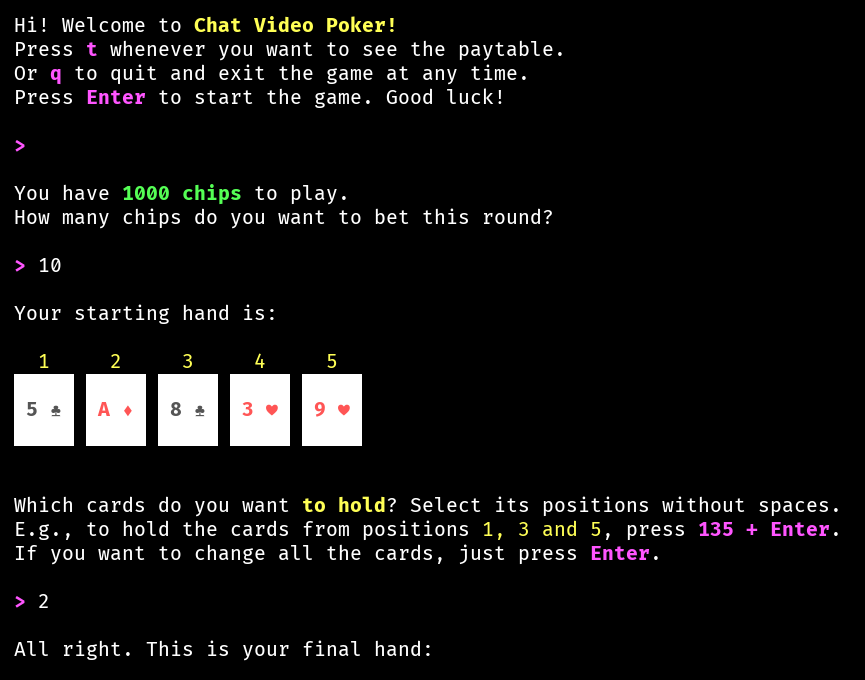
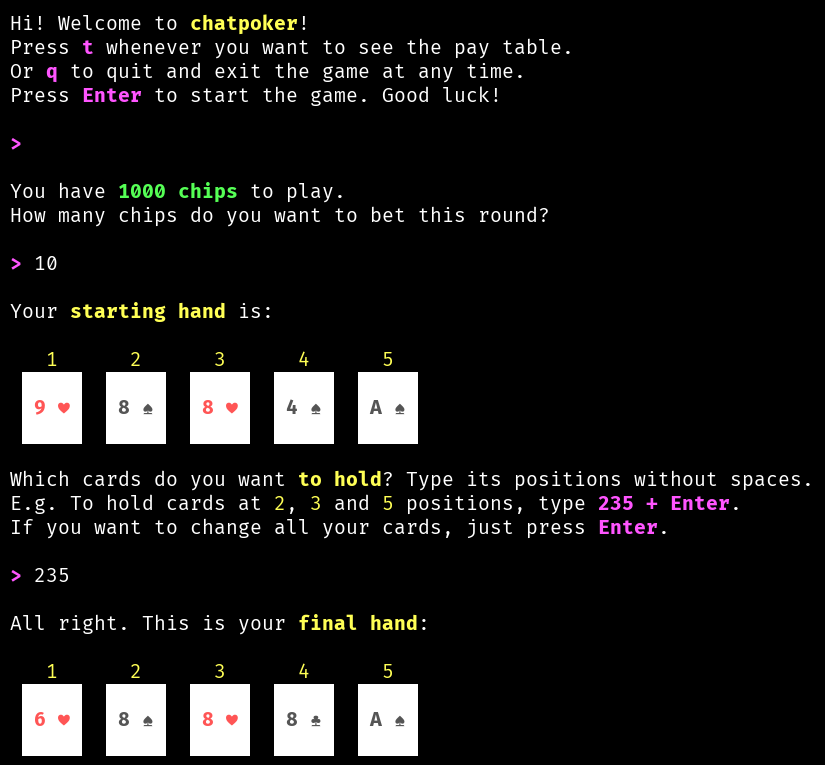
Messages refactoring

diff --git a/messages.py b/messages.py
@@ -1,128 +1,113 @@
-PURPLE = '\033[95m'
-BLUE = '\033[94m'
-CYAN = '\033[96m'
-GREEN = '\033[92m'
-YELLOW = '\033[93m'
-RED = '\033[91m'
-ENDC = '\033[0m'
-BOLD = '\033[1m'
-BLACK = '\033[30m'
-UNDERLINE = '\033[4m'
-FOREWHITE = '\033[107m'
+# ANSI color codes constants
+P = "\033[95m"  # Purple
+G = "\033[92m"  # Green
+Y = "\033[93m"  # Yellow
+R = "\033[91m"  # Red
+K = "\033[30m"  # Black
+W = "\033[107m" # White (foreground)
+B = "\033[1m"   # Bold
+D = "\033[0m"   # Restore to default
+BP = B + P
+BG = B + G
+BY = B + Y
+BR = B + R
 
-suit_map = {0: "♣",
-            1: "♥",
-            2: "♠",
-            3: "♦"}
+SUITS = ["♣", "♥", "♠", "♦"]
+VALS = ["2", "3", "4", "5", "6", "7", "8", "9", "10", "J", "Q", "K", "A"]
 
-val_map = {0: "2", 1: "3", 2: "4", 3: "5", 4: "6",
-           5: "7", 6: "8", 7: "9", 8: "10", 9: "J",
-           10: "Q", 11: "K", 12: "A"}
-
-PROMPT = f"    {BOLD}{PURPLE}> {ENDC}"
+PROMPT = f" {BP}>{D} "
 
 def render_card(v, s):
-    t = BOLD
-    if s in (1, 3):
-        t += FOREWHITE
-        t += RED
-    else:
-        t += FOREWHITE
-        t += BLACK
-    t += f" {val_map[v]:2}{suit_map[s]}"
-    t += " "
-    t += ENDC
-
-    return t
+    """Renders the card central line with number and suit"""
+    l = B + W
+    if s in (1, 3): # Red suit
+        l += R
+    else:           # Black suit
+        l += K
+    l += f" {VALS[v]:2}{SUITS[s]} {D}"
+    return l
 
 def render_hand(hand):
-    pos = f"{YELLOW}  1     2     3     4     5{ENDC}"
-    borders = 5 * f"{FOREWHITE}     {ENDC} "
-    return f"""
-    {pos}
-    {borders}
-    {" ".join([render_card(v, s) for v, s in hand])}
-    {borders}
-    """
+    """Renders the hand of cards"""
+    white_line = 5 * f" {W}     {D} " # White top and bottom cards lines
+    card_line = "  ".join([render_card(v, s) for v, s in hand])
+    t = (f"\n {Y}   1      2      3      4      5{D}\n"
+         f" {white_line}\n"
+         f"  {card_line}\n"
+         f" {white_line}\n")
+    return t
 
 def welcome():
-    return f"""
-    Hi! Welcome to {BOLD}{YELLOW}Chat Video Poker!{ENDC}
-    Press {BOLD}{PURPLE}t{ENDC} whenever you want to see the paytable.
-    Or {BOLD}{PURPLE}q{ENDC} to quit and exit the game at any time.
-    Press {BOLD}{PURPLE}Enter{ENDC} to start the game. Good luck!
-    """
+    t = (f"\n Hi! Welcome to {BY}chatpoker{D}!\n"
+         f" Press {BP}t{D} whenever you want to see the pay table.\n"
+         f" Or {BP}q{D} to quit and exit the game at any time.\n"
+         f" Press {BP}Enter{D} to start the game. Good luck!\n")
+    return t
 
 def bet(chips):
-    return f"""
-    You have {BOLD}{GREEN}{chips} chips{ENDC} to play.
-    How many chips do you want to bet this round?
-    """
+    t = (f"\n You have {BG}{chips} chips{D} to play.\n"
+         f" How many chips do you want to bet this round?\n")
+    return t
 
 def bet_limit(chips):
-    return f"""
-    {RED}Hey! you cannot bet more than {chips} chips.{ENDC}"""
+    t = f"\n {R}Hey! you cannot bet more than {BR}{chips} chips{D}{R}.{D}"
+    return t
 
 def bet_error():
-    return f"""
-    {RED}Sorry, but you need to enter a valid number.{ENDC}"""
+    t = f"\n {R}Sorry, but you need to enter a valid number.{D}"
+    return t
 
 def your_hand(hand):
-    rendered_hand = render_hand(hand)
-    return f"""
-    Your starting hand is:
-    {rendered_hand}"""
+    t = (f"\n Your {BY}starting hand{D} is:\n"
+         f" {render_hand(hand)}")
+    return t
 
 def change():
-    return f"""
-    Which cards do you want {BOLD}{YELLOW}to hold{ENDC}? Select its positions without spaces.
-    E.g., to hold the cards from positions {YELLOW}1, 3 and 5{ENDC}, press {BOLD}{PURPLE}135 + Enter{ENDC}.
-    If you want to change all the cards, just press {BOLD}{PURPLE}Enter{ENDC}.
-    """
+    t = (f" Which cards do you want {BY}to hold{D}?"
+         f" Type its positions without spaces.\n"
+         f" E.g. To hold cards at {Y}2{D}, {Y}3{D} and {Y}5{D}"
+         f" positions, type {BP}235 + Enter{D}.\n"
+         f" If you want to change all your cards, just press {BP}Enter{D}.\n")
+    return t
 
 def change_error():
-    return f"""
-    {RED}My bad... You must choose only valid card positions.{ENDC}"""
+    t = f"\n {R}Nope... You must choose valid card positions.{D}"
+    return t
 
 def result(hand, pattern, prize):
-    rendered_hand = render_hand(hand)
     if prize == 0:
-        prize_msg = "You didn't make any poker hands and lost your bet :("
+        msg = f"You didn't make a poker hand. Sorry, {BG}no bucks{D} for you."
     else:
-        prize_msg = f"You made a {BOLD}{YELLOW}{pattern}{ENDC} and won {BOLD}{GREEN}{prize} chips{ENDC}!"
-    return f"""
-    All right. This is your final hand:
-    {rendered_hand}
-
-    {prize_msg}"""
+        msg = f"You made a {BY}{pattern}{D} and won {BG}{prize} chips{D}!"
+    t = (f"\n All right. This is your {BY}final hand{D}:\n"
+         f" {render_hand(hand)}\n"
+         f" {msg}")
+    return t
 
 def new_hand():
-    return f"""
-    Press {BOLD}{PURPLE}Enter{ENDC} to start a new round.
-    """
+    t = f"\n Press {BP}Enter{D} to start a new round.\n"
+    return t
 
 def end():
-    return f"""
-    What a pity! You lost all your rich buck :(
-    Want to play again? Just press {BOLD}{PURPLE}Enter{ENDC} and I'll lend you some money.
-    """
+    t = (f"\n What a pity! You lost all your bucks :(\n"
+         f" Want to play again? Just press {BP}Enter{D}"
+         f" and I'll lend you some money.\n")
+    return t
 
 def quit(chips):
-    return f"""
-    You left the game with {BOLD}{GREEN}{chips} chips{ENDC}.
-    See you later!
-    """
+    t = (f"\n You left the game with {BG}{chips} chips{D}.\n"
+         f" See you later!\n")
+    return t
 
 def table():
-    return f"""
-    This is the paytable for each chip bet:
-
-    Royal Flush:        {BOLD}{YELLOW}800{ENDC}
-    Straight Flush:      {BOLD}{YELLOW}50{ENDC}
-    Four of a kind:      {BOLD}{YELLOW}25{ENDC}
-    Full House:           {BOLD}{YELLOW}9{ENDC}
-    Flush:                {BOLD}{YELLOW}6{ENDC}
-    Straight:             {BOLD}{YELLOW}4{ENDC}
-    Three of a kind:      {BOLD}{YELLOW}3{ENDC}
-    Two Pair:             {BOLD}{YELLOW}2{ENDC}
-    Jacks or Better:      {BOLD}{YELLOW}1{ENDC}"""
+    t = (f"\n This is the {BY}pay table{D} for each chip bet:\n\n"
+         f"  Royal Flush:        {BG}800{D}\n"
+         f"  Straight Flush:      {BG}50{D}\n"
+         f"  Four of a kind:      {BG}25{D}\n"
+         f"  Full House:           {BG}9{D}\n"
+         f"  Flush:                {BG}6{D}\n"
+         f"  Straight:             {BG}4{D}\n"
+         f"  Three of a kind:      {BG}3{D}\n"
+         f"  Two Pair:             {BG}2{D}\n"
+         f"  Jacks or Better:      {BG}1{D}")
+    return t

diff --git a/README.md b/README.md
@@ -29,7 +29,7 @@ python poker.py
 
 ## Docker version
 
-There's also a [Docker version on Docker Hub](https://hub.docker.com/r/zelacerda/chatpoker/tags) that you can use without install any file or dependency. Use the command below to pull the image and run the containerized version:
+There's also a [Docker version on Docker Hub](https://hub.docker.com/r/zelacerda/chatpoker/tags) that you can use without install any file or dependency. Presuming Docker is installed on your system, use the command below to pull the image and run the containerized version:
 
 ```
 docker run --rm -it zelacerda/chatpoker
@@ -37,4 +37,4 @@ docker run --rm -it zelacerda/chatpoker
 
 Feel free to use, modify and distribute!
 
-**version 1.0 - 2023 - by zelacerda**
+**version 1.0.1 - 2023 - by zelacerda**
